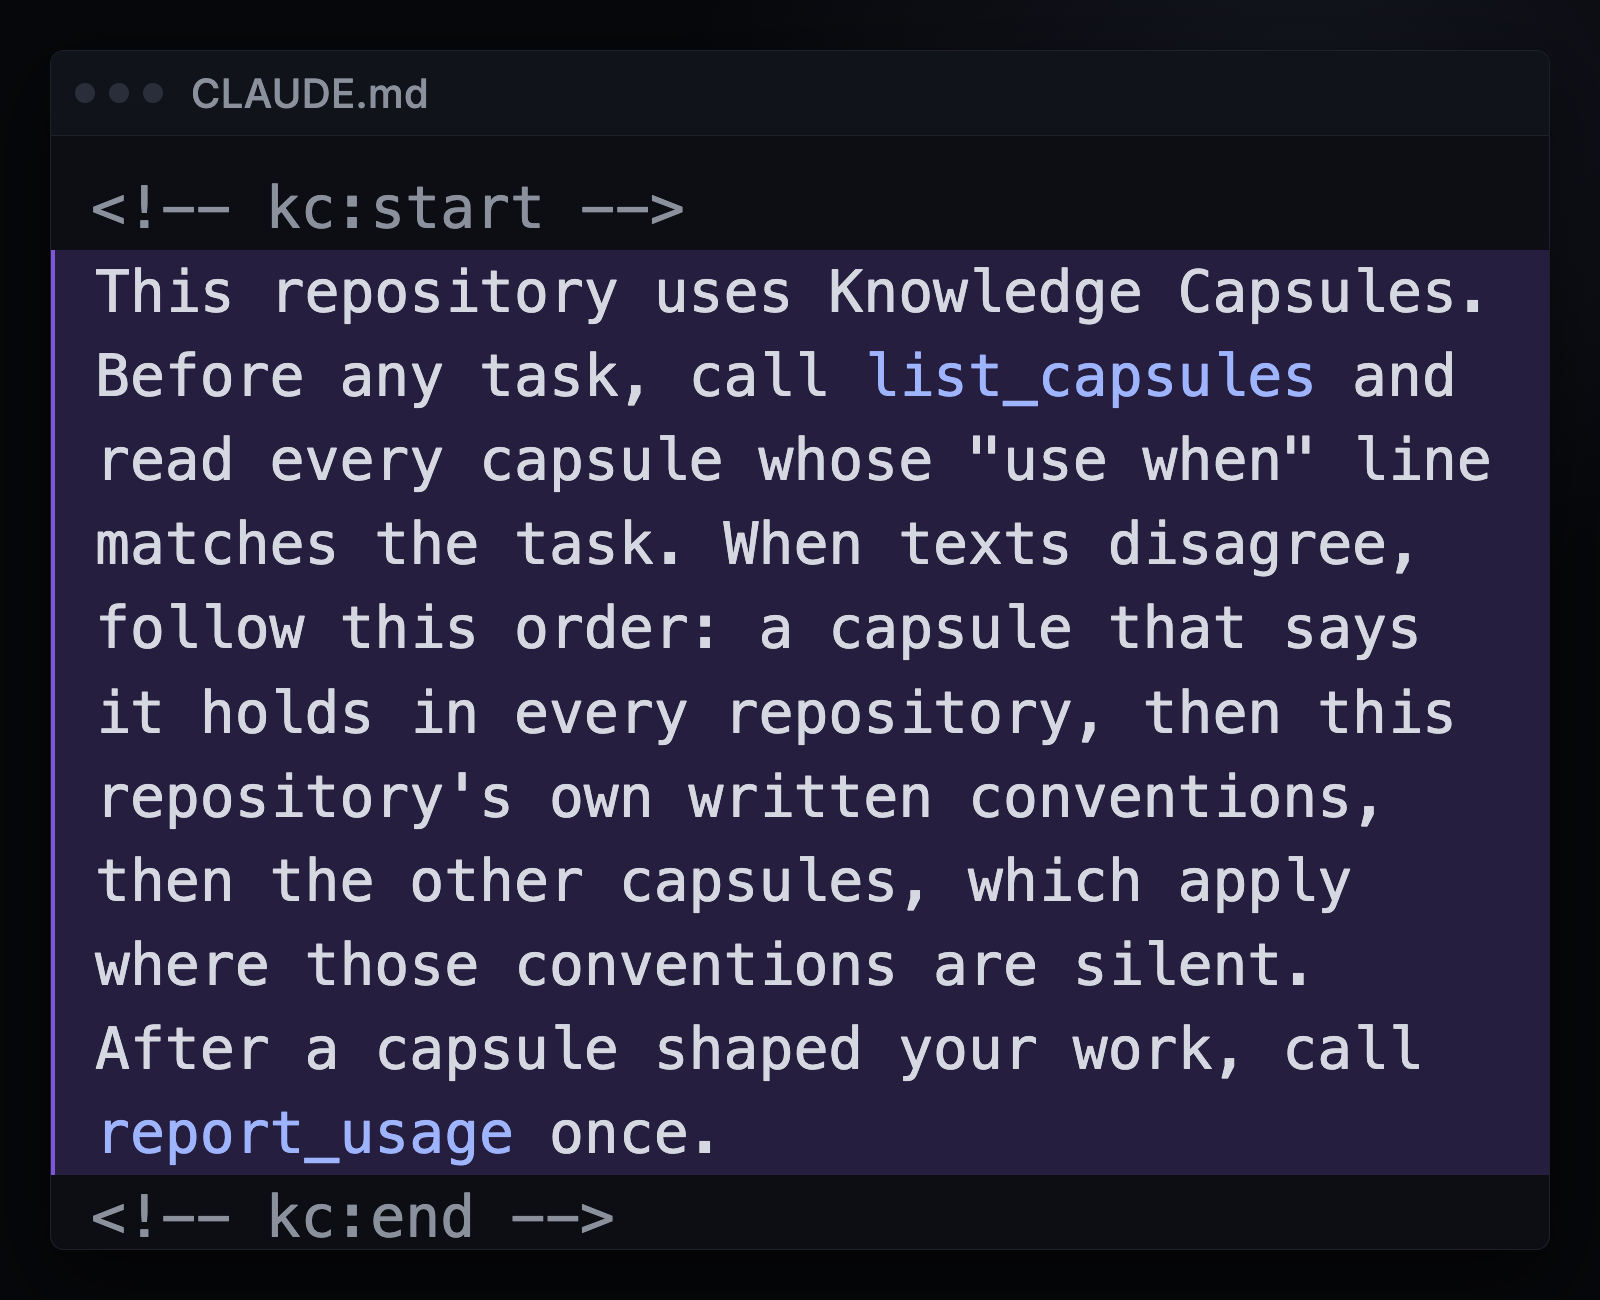
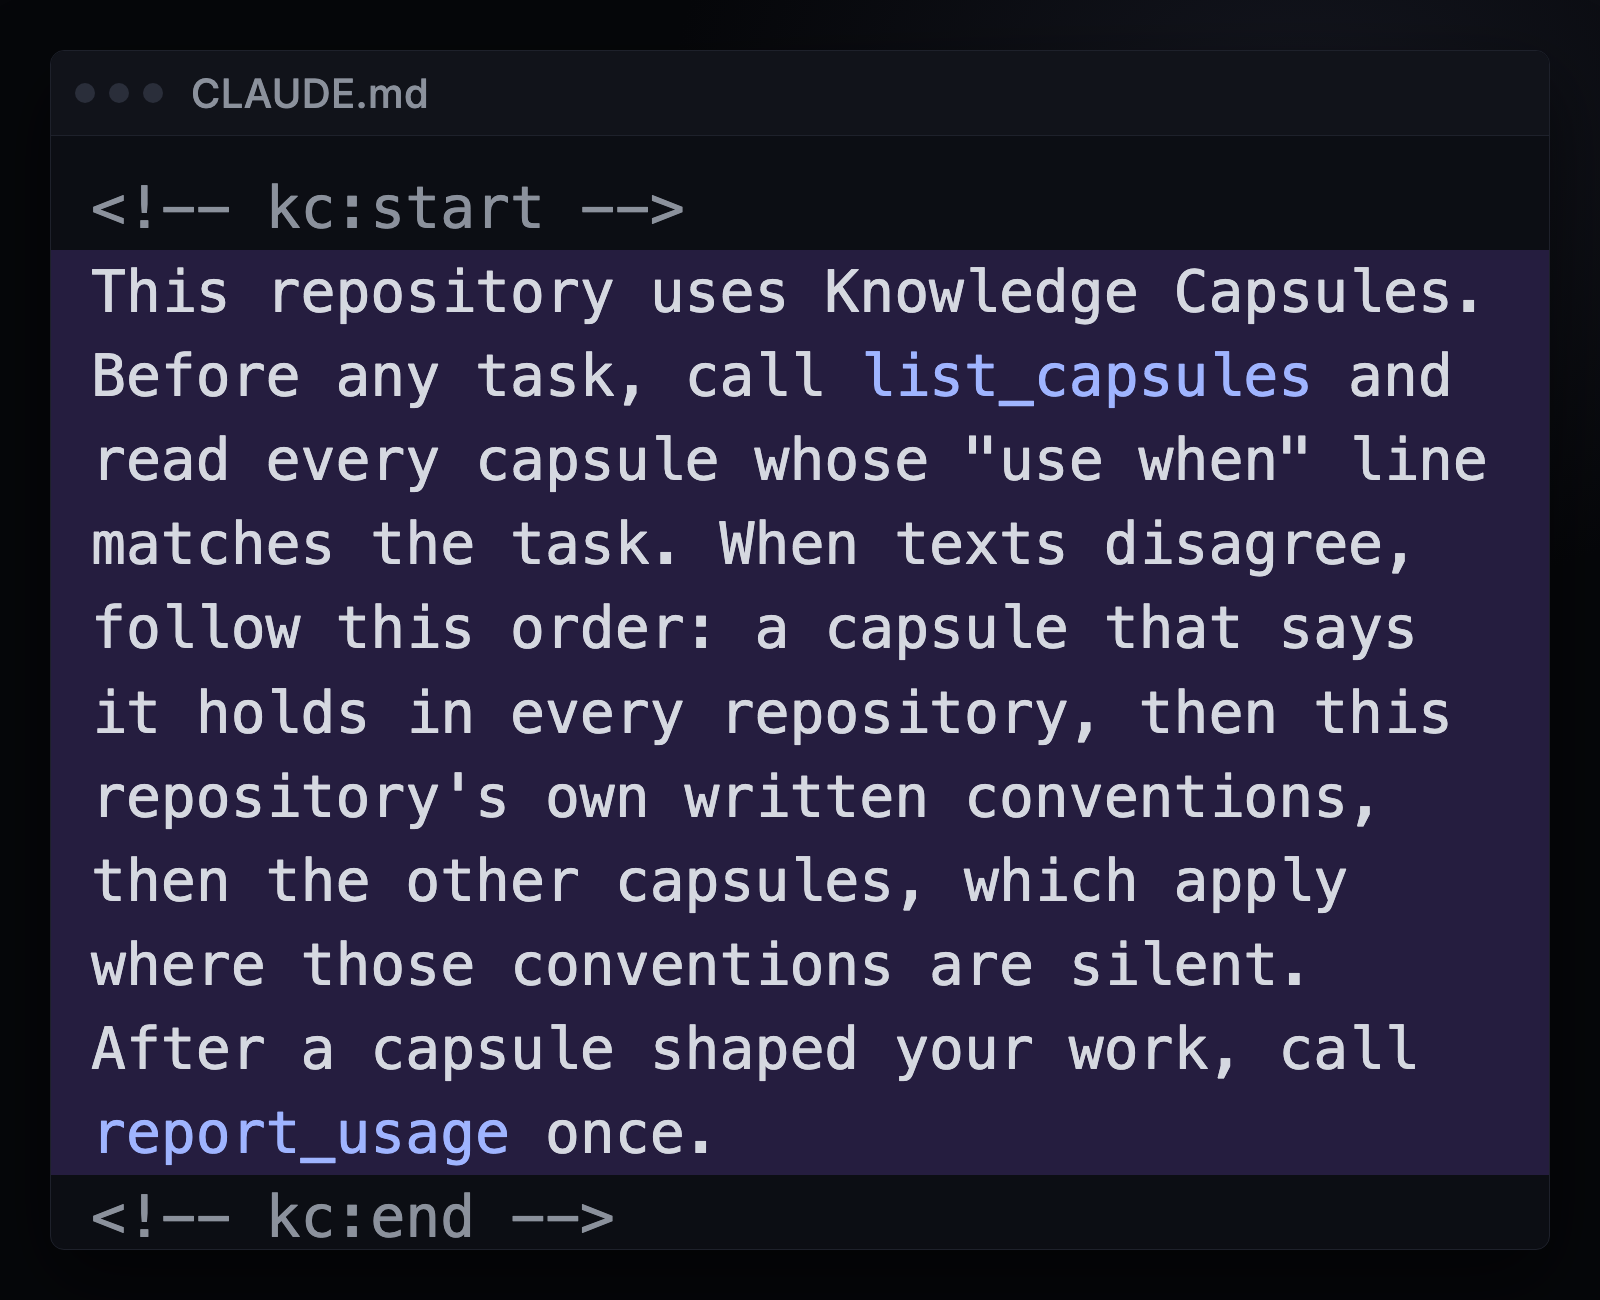
README scenes: highlight by tint, no side bar

diff --git a/assets/scenes/agent-answer.html b/assets/scenes/agent-answer.html
@@ -11,7 +11,7 @@ html,body{margin:0;padding:0;background:var(--bg)}
 .bar span{margin-left:14px}
 pre{margin:0;padding:30px 40px;font-family:"SF Mono",Menlo,Consolas,monospace;color:#D5D8E0;white-space:pre-wrap;word-break:break-word}
 .p{color:var(--accent)} .m{color:var(--muted)} .o{color:var(--ok)} .g{color:#A9AEB8} .k{color:#9FB4FF} .t{color:#F3F4F6}
-.hl{background:rgba(127,86,217,.22);display:block;margin:0 -40px;padding:0 40px;border-left:4px solid var(--accent-d)}
+.hl{background:rgba(127,86,217,.22);display:block;margin:0 -40px;padding:0 40px}
 </style></head><body><div class="s">
 <div class="w"><div class="bar"><i></i><i></i><i></i><span>Coding agent · settings screen</span></div>
 <pre style="font-size:37px;line-height:1.42"><span class="p">You</span>  <span class="t">Plan a settings screen for the app.</span>

diff --git a/assets/scenes/agent-tools.html b/assets/scenes/agent-tools.html
@@ -11,7 +11,7 @@ html,body{margin:0;padding:0;background:var(--bg)}
 .bar span{margin-left:14px}
 pre{margin:0;padding:30px 40px;font-family:"SF Mono",Menlo,Consolas,monospace;color:#D5D8E0;white-space:pre-wrap;word-break:break-word}
 .p{color:var(--accent)} .m{color:var(--muted)} .o{color:var(--ok)} .g{color:#A9AEB8} .k{color:#9FB4FF} .t{color:#F3F4F6}
-.hl{background:rgba(127,86,217,.22);display:block;margin:0 -40px;padding:0 40px;border-left:4px solid var(--accent-d)}
+.hl{background:rgba(127,86,217,.22);display:block;margin:0 -40px;padding:0 40px}
 </style></head><body><div class="s">
 <div class="w"><div class="bar"><i></i><i></i><i></i><span>Coding agent · tool calls to KnowledgeCapsules</span></div>
 <pre style="font-size:52px;line-height:1.45"><span class="p">&#9656;</span> <span class="k">list_capsules</span>

diff --git a/assets/scenes/status.html b/assets/scenes/status.html
@@ -11,7 +11,7 @@ html,body{margin:0;padding:0;background:var(--bg)}
 .bar span{margin-left:14px}
 pre{margin:0;padding:30px 40px;font-family:"SF Mono",Menlo,Consolas,monospace;color:#D5D8E0;white-space:pre-wrap;word-break:break-word}
 .p{color:var(--accent)} .m{color:var(--muted)} .o{color:var(--ok)} .g{color:#A9AEB8} .k{color:#9FB4FF} .t{color:#F3F4F6}
-.hl{background:rgba(127,86,217,.22);display:block;margin:0 -40px;padding:0 40px;border-left:4px solid var(--accent-d)}
+.hl{background:rgba(127,86,217,.22);display:block;margin:0 -40px;padding:0 40px}
 </style></head><body><div class="s">
 <div class="w"><div class="bar"><i></i><i></i><i></i><span>Terminal · a repository</span></div>
 <pre style="font-size:38px;line-height:1.42"><span class="p">$</span> <span class="t">kc status</span>

diff --git a/assets/scenes/agent-note.html b/assets/scenes/agent-note.html
@@ -11,7 +11,7 @@ html,body{margin:0;padding:0;background:var(--bg)}
 .bar span{margin-left:14px}
 pre{margin:0;padding:30px 40px;font-family:"SF Mono",Menlo,Consolas,monospace;color:#D5D8E0;white-space:pre-wrap;word-break:break-word}
 .p{color:var(--accent)} .m{color:var(--muted)} .o{color:var(--ok)} .g{color:#A9AEB8} .k{color:#9FB4FF} .t{color:#F3F4F6}
-.hl{background:rgba(127,86,217,.22);display:block;margin:0 -40px;padding:0 40px;border-left:4px solid var(--accent-d)}
+.hl{background:rgba(127,86,217,.22);display:block;margin:0 -40px;padding:0 40px}
 </style></head><body><div class="s">
 <div class="w"><div class="bar"><i></i><i></i><i></i><span>CLAUDE.md</span></div>
 <pre style="font-size:58px;line-height:1.45"><span class="m">&lt;!-- kc:start --&gt;</span>
